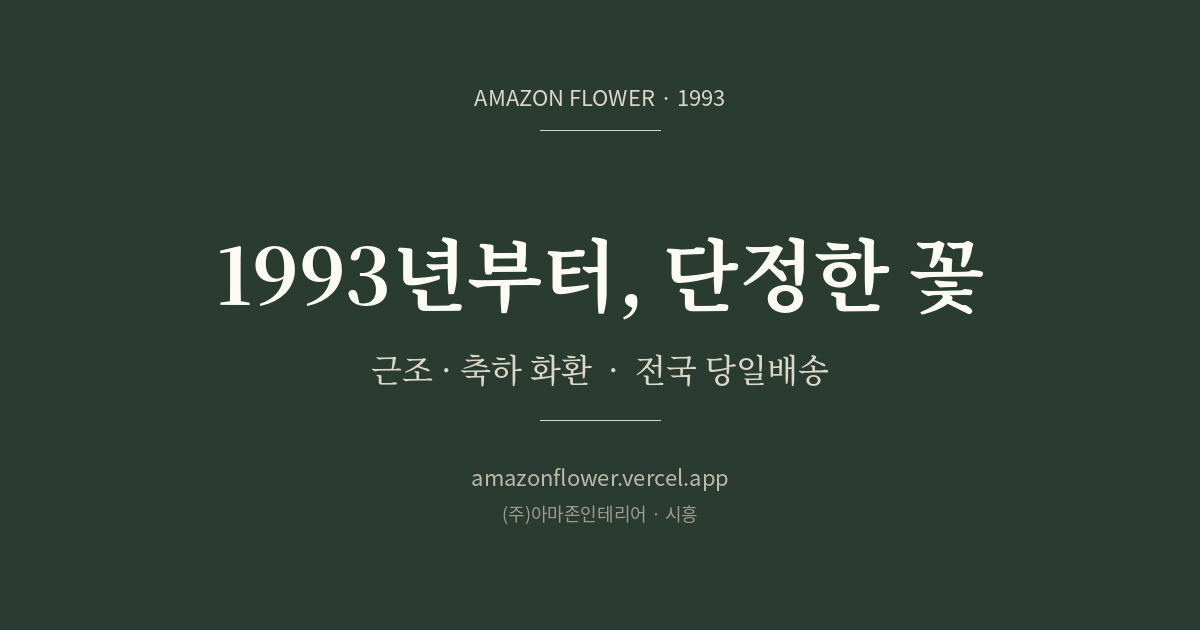
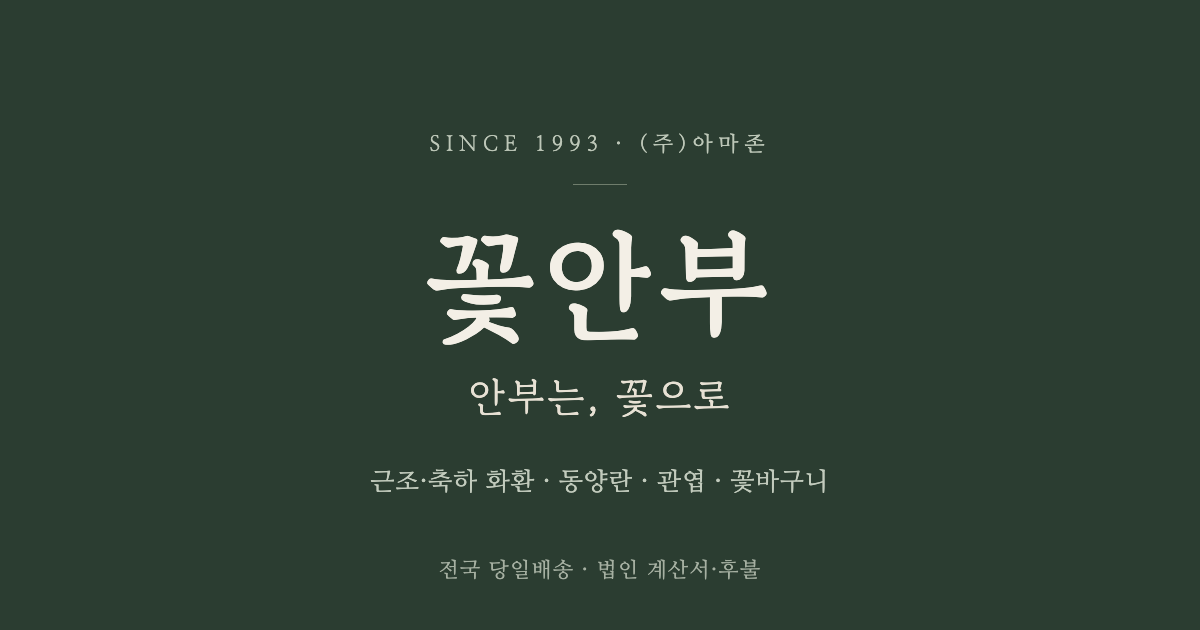
Rebrand OG cover image to 꽃안부; v8
- Replace og_preview.png (KakaoTalk/link share card) with new
  꽃안부 / 안부는, 꽃으로 design matching site font + dark green
- Remove stale AMAZON FLOWER / (주)아마존인테리어 / wreath-only copy;
  add 화환·난·관엽·꽃바구니 line, drop hardcoded vercel domain
- Add og_card.html template (rendered via headless Chrome) for reuse
- Bump badge to v8

diff --git a/og_card.html b/og_card.html
@@ -1,0 +1,35 @@
+<!doctype html>
+<html lang="ko">
+<head>
+<meta charset="utf-8">
+<style>
+  @import url('https://fonts.googleapis.com/css2?family=Gowun+Batang:wght@400;700&family=Nanum+Myeongjo:wght@400;700;800&display=swap');
+  * { margin:0; padding:0; box-sizing:border-box; }
+  html, body { width:1200px; height:630px; }
+  .card {
+    width:1200px; height:630px;
+    background:#2b3d31;
+    color:#f3efe6;
+    display:flex; flex-direction:column; align-items:center; justify-content:center;
+    font-family:"Gowun Batang","Nanum Myeongjo",serif;
+    position:relative; overflow:hidden;
+  }
+  .eyebrow { font-family:"Nanum Myeongjo",serif; font-size:21px; letter-spacing:6px; color:#bdc7b8; margin-bottom:26px; }
+  .rule { width:54px; border-top:1px solid #6f7d6c; margin:0 auto 38px; }
+  .brand { font-size:118px; font-weight:700; letter-spacing:6px; line-height:1; }
+  .tagline { font-size:40px; font-weight:400; margin-top:26px; color:#e7e1d4; letter-spacing:2px; }
+  .cats { font-size:25px; color:#c2cbbd; margin-top:42px; letter-spacing:1px; font-family:"Nanum Myeongjo",serif; }
+  .bottom { position:absolute; bottom:46px; font-size:21px; color:#a6b0a2; letter-spacing:1.5px; font-family:"Nanum Myeongjo",serif; }
+</style>
+</head>
+<body>
+  <div class="card">
+    <div class="eyebrow">SINCE 1993 · (주)아마존</div>
+    <div class="rule"></div>
+    <div class="brand">꽃안부</div>
+    <div class="tagline">안부는, 꽃으로</div>
+    <div class="cats">근조·축하 화환 · 동양란 · 관엽 · 꽃바구니</div>
+    <div class="bottom">전국 당일배송 · 법인 계산서·후불</div>
+  </div>
+</body>
+</html>

diff --git a/index.html b/index.html
@@ -295,7 +295,7 @@
 </style>
 </head>
 <body>
-<div class="version-badge">v7</div>
+<div class="version-badge">v8</div>
 <div class="wrap">
 
   <header>